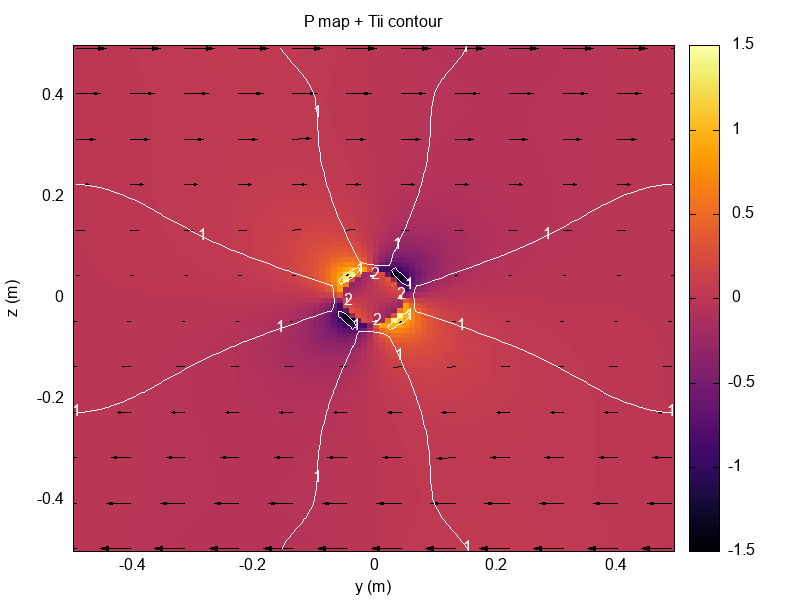
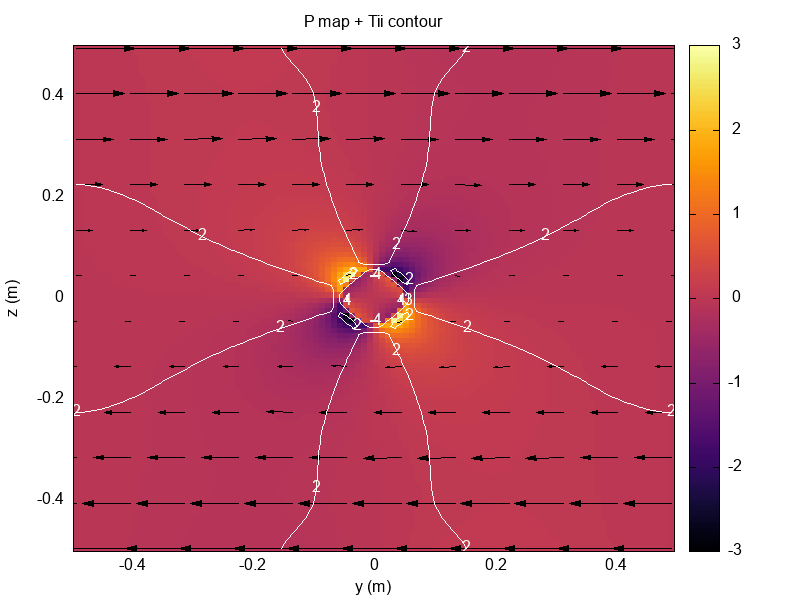
Visualtests: add Grain Size Evolution test (#58)
* Visual Tests: add GSE

* Visual Tests: add GSE (its still buggy)

* add ref

* add implementation

* refresh

* remove extra frame

* add latex

* final fixes

* add Myrs

diff --git a/VISUAL_TESTS/main.cpp b/VISUAL_TESTS/main.cpp
@@ -261,6 +261,21 @@ void RenameTopoBenchCaseFiles() {
   rename("Output00100.gzip.h5", "TopoBenchCase00100.gzip.h5");
 }
 
+void RenameGSEFiles() {
+  fs::create_directory("GSE");
+  const auto copyOptions = fs::copy_options::overwrite_existing;
+  fs::copy("Output00010.gzip.h5", "GSE/GSE00010.gzip.h5", copyOptions);
+  fs::copy("Output00020.gzip.h5", "GSE/GSE00020.gzip.h5", copyOptions);
+  fs::copy("Output00030.gzip.h5", "GSE/GSE00030.gzip.h5", copyOptions);
+  fs::copy("Output00040.gzip.h5", "GSE/GSE00040.gzip.h5", copyOptions);
+  fs::copy("Output00050.gzip.h5", "GSE/GSE00050.gzip.h5", copyOptions);
+  fs::copy("Output00060.gzip.h5", "GSE/GSE00060.gzip.h5", copyOptions);
+  fs::copy("Output00070.gzip.h5", "GSE/GSE00070.gzip.h5", copyOptions);
+  fs::copy("Output00080.gzip.h5", "GSE/GSE00080.gzip.h5", copyOptions);
+  fs::copy("Output00090.gzip.h5", "GSE/GSE00090.gzip.h5", copyOptions);
+  fs::copy("Output00100.gzip.h5", "GSE/GSE00100.gzip.h5", copyOptions);
+}
+
 int SHD14SetPhase(MdoodzInput *instance, Coordinates coordinates) {
   const double radius = instance->model.user1 / instance->scaling.L;
   if (coordinates.x * coordinates.x + coordinates.z * coordinates.z < radius * radius) {
@@ -324,7 +339,70 @@ MdoodzSetup CreateShearHeatingDuretz14Instance() {
   };
 }
 
+int GSESetPhase(MdoodzInput *instance, Coordinates coordinates) {
+  const double A          = 2e-3 / instance->scaling.L;
+  const double layer_bot0 = -5e-2 / instance->scaling.L;
+  const double layer_top0 = 5e-2 / instance->scaling.L;
+  const double Lx         = (instance->model.xmax - instance->model.xmin);
+  const double layer_top  = layer_top0 - A * cos(coordinates.x * 2.0 * M_PI / Lx);
+  const double layer_bot  = layer_bot0 + A * cos(coordinates.x * 2.0 * M_PI / Lx);
+  if (coordinates.z > layer_bot && coordinates.z < layer_top) {
+    return 1;
+  } else {
+    return 0;
+  }
+}
+double GSESetGrainSize(MdoodzInput *instance, Coordinates coordinates, int phase) {
+  return instance->materials.gs_ref[phase];
+}
+
+double GSESetDensity(MdoodzInput *instance, Coordinates coordinates, int phase) {// phase
+  return instance->materials.rho[phase];
+}
+
+double GSESetTemperature(MdoodzInput *instance, Coordinates coordinates) {
+  const double T = (instance->model.user0 + zeroC) / instance->scaling.T;
+  return T;
+}
+
+//----------------------------- THERMAL SetBC -----------------------------//
+
+
+SetBC GSESetBCT(MdoodzInput *instance, POSITION position, double gridTemperature) {
+  return {
+          .value = gridTemperature,
+          .type  = 0,
+  };
+}
+
+SetBC GSESetBCTNew(MdoodzInput *instance, POSITION position, double gridTemperature) {
+  return {
+          .value = gridTemperature,
+          .type  = 0,
+  };
+}
+
+MdoodzSetup CreateGSEInstance() {
+  return (MdoodzSetup){
+          .SetParticles = new (SetParticles_ff){
+                  .SetPhase       = GSESetPhase,
+                  .SetTemperature = GSESetTemperature,
+                  .SetGrainSize   = GSESetGrainSize,
+                  .SetDensity     = GSESetDensity,
+          },
+          .SetBCs = new SetBCs_ff{
+                  .SetBCVx   = SetPureShearBCVx,
+                  .SetBCVz   = SetPureShearBCVz,
+                  .SetBCT    = GSESetBCT,
+                  .SetBCTNew = GSESetBCTNew,
+          },
+  };
+}
+
 void RunTestCases() {
+  MdoodzSetup gse = CreateGSEInstance();
+  RunMDOODZ("PinchSwellGSE.txt", &gse);
+  RenameGSEFiles();
   MdoodzSetup shearHeatingDuretz14 = CreateShearHeatingDuretz14Instance();
   RunMDOODZ("ShearHeatingDuretz14.txt", &shearHeatingDuretz14);
   rename("Output00005.gzip.h5", "ShearHeatingDuretz14.gzip.h5");
@@ -369,6 +447,8 @@ void UpdateReadmeTimestamp() {
 
 int main() {
   RunTestCases();
+  PlotGSE();
+  PlotGSERef();
   PlotRiftingPauline();
   PlotRiftingPaulineReference();
   PlotShearTemplate();

diff --git a/VISUAL_TESTS/GSE.cpp b/VISUAL_TESTS/GSE.cpp
@@ -1,0 +1,76 @@
+#include "HDF5pp.h"
+#include <Eigen/Core>
+#include <iostream>
+#include <cstdio>
+#include "visual-tests.h"
+#include <set>
+
+using namespace Eigen;
+using namespace std;
+namespace fs = filesystem;
+
+void BuildChart(set<fs::path> outputFiles, char* fileSuffix) {
+  ofstream myfile;
+  const double secondsInYear = 31556952.0;
+  char datFileName[20];
+  snprintf(datFileName, sizeof(datFileName), "gse%s.dat", fileSuffix);
+  myfile.open(datFileName);
+  double initialSize;
+  for (fs::path filePath : outputFiles) {
+    myfile << '\n' << '\n';
+    H5p::File file = H5p::File(filePath, "r");
+    vector<double> params = file.read<vector<double>>("/Model/Params");
+    const double time = round(((double) params[0] / (secondsInYear * 1000))) / 1000;
+    const int nx = (int) params[3];
+    const int nz = (int) params[4];
+
+    vector<float> grainSize = file.read<vector<float>>("/Centers/d");
+    Map<MatrixXf> grainSizeMatrix(grainSize.data(), nx - 1, nz - 1);
+    vector<float> xcCoord = file.read<vector<float>>("/Model/xc_coord");
+    vector<float> zcCoord = file.read<vector<float>>("/Model/zc_coord");
+
+    if (!initialSize) {
+      initialSize = xcCoord[0];
+    }
+    const double extensionPercent = round((xcCoord[0] / initialSize - 1) * 100);
+    myfile << "\"{/:Italic t} = " << time << " [Myr], Extension: " << extensionPercent << " % \"" << endl;
+    for (int j = 0; j < nz - 1; j++) {
+      for (int i = 0; i < nx - 1; i++) {
+        myfile << xcCoord[i] << '\t' << zcCoord[j] << '\t' << log10(grainSizeMatrix(i, j) * 1e6) << endl;
+      }
+    }
+  }
+
+  myfile.close();
+  char command[500];
+  snprintf(command, sizeof(command), R"(gnuplot -e "filename='../VISUAL_TESTS/img/gse%s.gif'" -e "data='gse%s.dat'" gse.gnu)", fileSuffix, fileSuffix);
+  cout << command;
+  FILE *GNUplotPipe = popen(command, "w");
+  fflush(GNUplotPipe);
+}
+
+void PlotGSE() {
+  std::string path = "./GSE";
+  set<fs::path> outputFiles;
+  for (const auto & entry : fs::directory_iterator(path)) {
+    std::string filePath = entry.path();
+    if (filePath.find("GSE00") == std::string::npos) {
+      continue;
+    }
+    string path_string{entry.path().string()};
+    if (path_string.find(".gzip.h5") == string::npos) {
+      continue;
+    }
+    outputFiles.insert(entry.path());
+  }
+  BuildChart(outputFiles, "");
+}
+
+void PlotGSERef() {
+  std::string path = "./GSE_REF";
+  set<fs::path> outputFiles;
+  for (const auto & entry : fs::directory_iterator(path)) {
+    outputFiles.insert(entry.path());
+  }
+  BuildChart(outputFiles, "ref");
+}

diff --git a/SETS/PinchSwellGSE.c b/SETS/PinchSwellGSE.c
@@ -27,39 +27,6 @@ double SetTemperature(MdoodzInput *instance, Coordinates coordinates) {
   return T;
 }
 
-SetBC SetBCVx(MdoodzInput *instance, POSITION position, Coordinates coordinates) {
-  SetBC bc;
-  if (position == W || position == E || position == NE || position == NW || position == SE || position == SW) {
-    bc.value = -coordinates.x * instance->model.EpsBG;
-    bc.type  = 0;
-  } else if (position == S || position == N) {
-    bc.value = 0.0;
-    bc.type  = 13;
-  } else {
-    bc.value = 0.0;
-    bc.type  = -1;
-  }
-  return bc;
-}
-
-SetBC SetBCVz(MdoodzInput *instance, POSITION position, Coordinates coordinates) {
-  SetBC bc;
-  if (position == NE || position == NW || position == SE || position == SW) {
-    bc.value = coordinates.z * instance->model.EpsBG;
-    bc.type  = 13;
-  } else if (position == W || position == E) {
-    bc.value = 0.0;
-    bc.type  = 13;
-  } else if (position == S || position == N) {
-    bc.value = coordinates.z * instance->model.EpsBG;
-    bc.type  = 0;
-  } else {
-    bc.value = 0.0;
-    bc.type  = -1;
-  }
-  return bc;
-}
-
 //----------------------------- THERMAL SetBC -----------------------------//
 
 
@@ -82,8 +49,8 @@ int main() {
                    .SetTemperature = SetTemperature,
           },
           .SetBCs = &(SetBCs_ff){
-                  .SetBCVz   = SetBCVz,
-                  .SetBCVx   = SetBCVx,
+                  .SetBCVz   = SetPureShearBCVz,
+                  .SetBCVx   = SetPureShearBCVx,
                   .SetBCT    = SetBCT,
                   .SetBCTNew = SetBCTNew,
           },

diff --git a/VISUAL_TESTS/visual-tests.h b/VISUAL_TESTS/visual-tests.h
@@ -10,5 +10,7 @@ void PlotShearTemplate1Reference();
 void PlotShearTemplate1();
 void PlotShearHeatingDuretz14Reference();
 void PlotShearHeatingDuretz14();
+void PlotGSE();
+void PlotGSERef();
 
 #endif

diff --git a/VISUAL_TESTS/readme.md b/VISUAL_TESTS/readme.md
@@ -1,6 +1,6 @@
 # Visual Tests
 
-Last run date: 2022-08-26.15:49:10
+Last run date: 2022-09-20.11:54:14
 
 ## Usage 
 
@@ -50,3 +50,13 @@ make build-dev VIS=ON run-vis
 ### TopoBenchCase1 Result with Analytical solution
 
 <img style="width: 75%" src="img/TopoBenchCase1.png"/>
+
+### PinchSwellGSE
+
+Based on a [Schmalholz and Duretz, 2017](https://www.sciencedirect.com/science/article/pii/S019181411730161X). 
+Shows evolution of the grain size during the necking in simple shear boundary conditions mode.
+
+| Result           | Reference           |
+|------------------|---------------------|
+| ![](img/gse.gif) | ![](img/gseref.gif) |
+